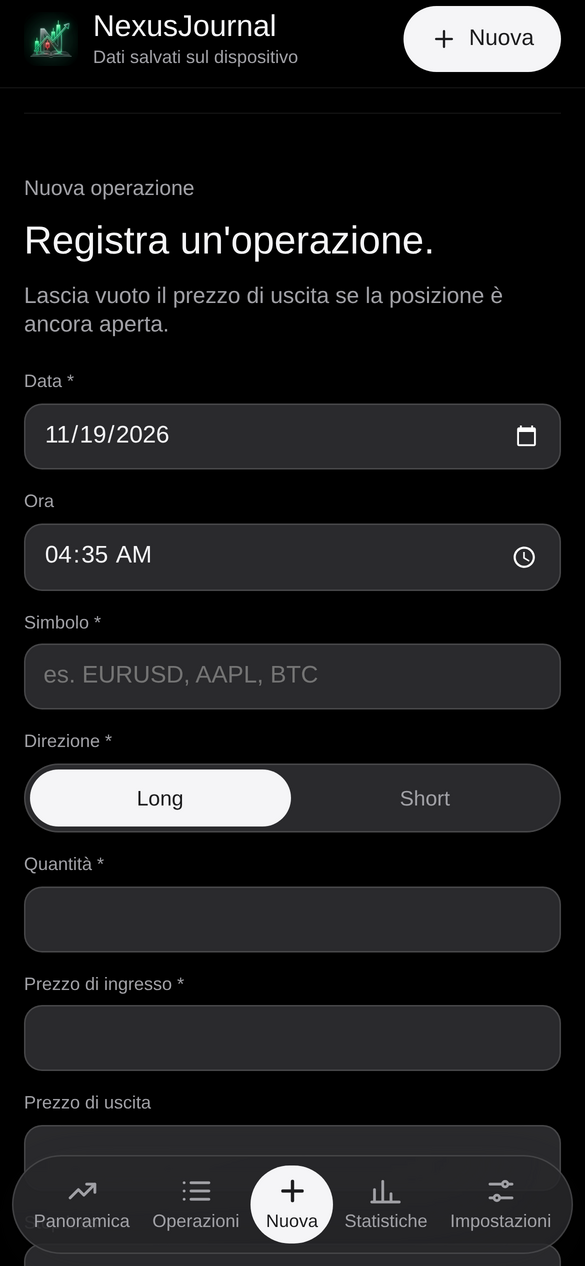
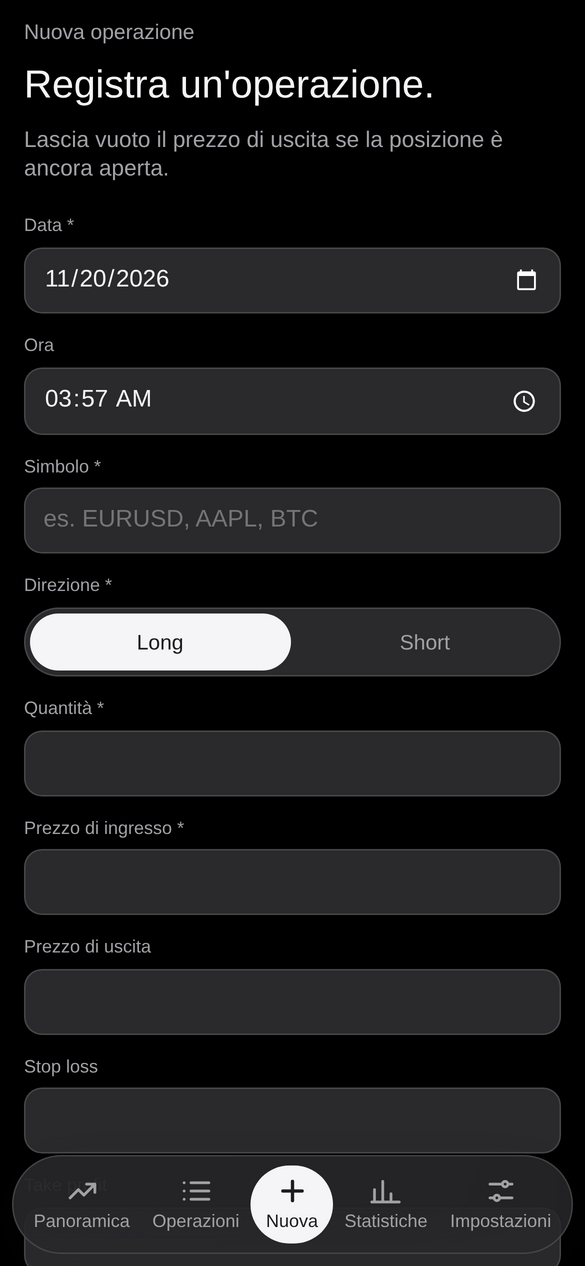
v1.3.3

diff --git a/index.html b/index.html
@@ -65,14 +65,11 @@
       html, body { background: var(--x-oled); margin: 0; }
       html { height: -webkit-fill-available; min-height: 100%; }
       body { min-height: 100%; min-height: -webkit-fill-available; min-height: 100dvh; -webkit-tap-highlight-color: transparent; }
-      .page { padding-top: 0; padding-bottom: calc(var(--x-tab-h) + var(--x-tab-bottom) + 12px); }
+      .page { padding-top: calc(env(safe-area-inset-top, 0px) + 12px); padding-bottom: calc(var(--x-tab-h) + var(--x-tab-bottom) + 12px); }
       .x-hide { display: none !important; }
 
-      /* App bar */
-      .x-appbar { position: sticky; top: 0; z-index: 20; display: flex; align-items: center; justify-content: space-between; gap: 12px; margin-inline: calc(var(--gutter) * -1); padding: calc(env(safe-area-inset-top, 0px) + 4px) var(--gutter) 10px; background: color-mix(in srgb, var(--x-oled) 82%, transparent); -webkit-backdrop-filter: var(--hark-blur); backdrop-filter: var(--hark-blur); border-bottom: 1px solid var(--stroke-secondary); }
-      .x-brand { display: flex; align-items: center; gap: 10px; font: var(--type-heading); color: var(--text-primary); text-decoration: none; }
-      .x-brand small { display: block; font: var(--type-caption); color: var(--text-secondary); }
-      .x-logo { width: 36px; height: 36px; flex: none; border-radius: 22%; display: block; object-fit: cover; }
+      /* Status bar strip: keeps scrolled content from showing under the clock */
+      .x-statusbar { position: fixed; top: 0; left: 0; right: 0; z-index: 20; height: env(safe-area-inset-top, 0px); background: color-mix(in srgb, var(--x-oled) 82%, transparent); -webkit-backdrop-filter: var(--hark-blur); backdrop-filter: var(--hark-blur); pointer-events: none; }
 
       /* Animated icons: strokes draw in, then rest */
       .x-ico { width: 22px; height: 22px; fill: none; stroke: currentColor; stroke-width: 2; stroke-linecap: round; stroke-linejoin: round; flex: none; }
@@ -98,7 +95,7 @@
 
       /* Views */
       .x-view { animation: x-fade-in 360ms var(--ease-out) both; }
-      .x-view.section:first-of-type { border-top: 0; padding-top: 24px; }
+      .x-view.section { border-top: 0; padding-top: 0; }
       .x-view > .head { margin-bottom: 20px; }
 
       /* Bottom tab bar */
@@ -107,7 +104,6 @@
       .x-tab[aria-current="page"] { background: var(--fill-primary); color: var(--text-primary-on); }
       .x-tab--add .x-ico { stroke-width: 2.4; }
       .x-tab { flex: 1 1 auto; min-width: var(--tap); }
-      .x-brand { min-height: var(--tap); }
       @media (max-width: 599px) {
         .x-tabbar { gap: 0; width: calc(100% - 16px); }
         .x-tab { padding-inline: 2px; }
@@ -247,15 +243,7 @@
   </head>
   <body>
     <div class="page" id="top">
-      <header class="x-appbar">
-        <a class="x-brand" href="#" data-go="dashboard" aria-label="NexusJournal, panoramica">
-          <img class="x-logo" src="icon-192.png" alt="" width="36" height="36" />
-          <span>NexusJournal<small id="storage-note">Dati salvati sul dispositivo</small></span>
-        </a>
-        <button class="x-cta" type="button" data-go="new" id="appbar-add">
-          <svg viewBox="0 0 24 24" class="x-ico"><path class="x-draw" pathLength="1" d="M12 5v14M5 12h14" /></svg>Nuova
-        </button>
-      </header>
+      <div class="x-statusbar" aria-hidden="true"></div>
 
       <main class="main">
         <!-- Panoramica -->
@@ -592,7 +580,7 @@
         var reduce = window.matchMedia("(prefers-reduced-motion: reduce)").matches;
 
         /* ---------- Version ---------- */
-        const APP_VERSION = "1.3.2";
+        const APP_VERSION = "1.3.3";
         $("app-version").textContent = APP + " v" + APP_VERSION;
         $("ob-version").textContent = "v" + APP_VERSION;
 
@@ -755,7 +743,6 @@
 
         function renderStorageNote() {
           var p = store.persistent();
-          $("storage-note").textContent = p ? "Dati salvati sul dispositivo" : "Memoria temporanea: esporta un backup";
           var d = $("storage-detail");
           if (d) d.textContent = (p ? "Salvataggio attivo nel browser (localStorage). " : "Il browser blocca il salvataggio: i dati durano solo fino alla chiusura della pagina. Esporta un backup prima di uscire. ") +
             trades.length + (trades.length === 1 ? " operazione registrata." : " operazioni registrate.");

diff --git a/README.md b/README.md
@@ -6,7 +6,7 @@
 
 **Il tuo diario di trading personale, nero, fluido e tutto sul tuo iPhone.**
 
-<img src="https://img.shields.io/badge/Versione-v1.3.2-22c55e?style=for-the-badge&labelColor=1c1c1e" alt="Versione v1.3.2"><br>
+<img src="https://img.shields.io/badge/Versione-v1.3.3-22c55e?style=for-the-badge&labelColor=1c1c1e" alt="Versione v1.3.3"><br>
 <img src="https://img.shields.io/badge/iPhone%20%7C%20Android%20%7C%20Desktop-Web%20App-3b82f6?style=for-the-badge&labelColor=1c1c1e&logo=safari&logoColor=white" alt="iPhone | Android | Desktop Web App"><br>
 <img src="https://img.shields.io/badge/Lingua-Italiano-8b5cf6?style=for-the-badge&labelColor=1c1c1e" alt="Lingua Italiano"><br>
 <img src="https://img.shields.io/badge/Dati-Solo%20sul%20dispositivo-0d0d0f?style=for-the-badge&labelColor=1c1c1e&logo=icloud&logoColor=white" alt="Dati Solo sul dispositivo"><br>
@@ -94,6 +94,6 @@ Tutte le operazioni restano nella memoria locale del dispositivo (`localStorage`
 
 ## Versione
 
-**v1.3.2** · aggiornato il 19/11/2026
+**v1.3.3** · aggiornato il 20/11/2026
 
 <div align="center"><sub>Uso personale · © ALBAEXE</sub></div>
